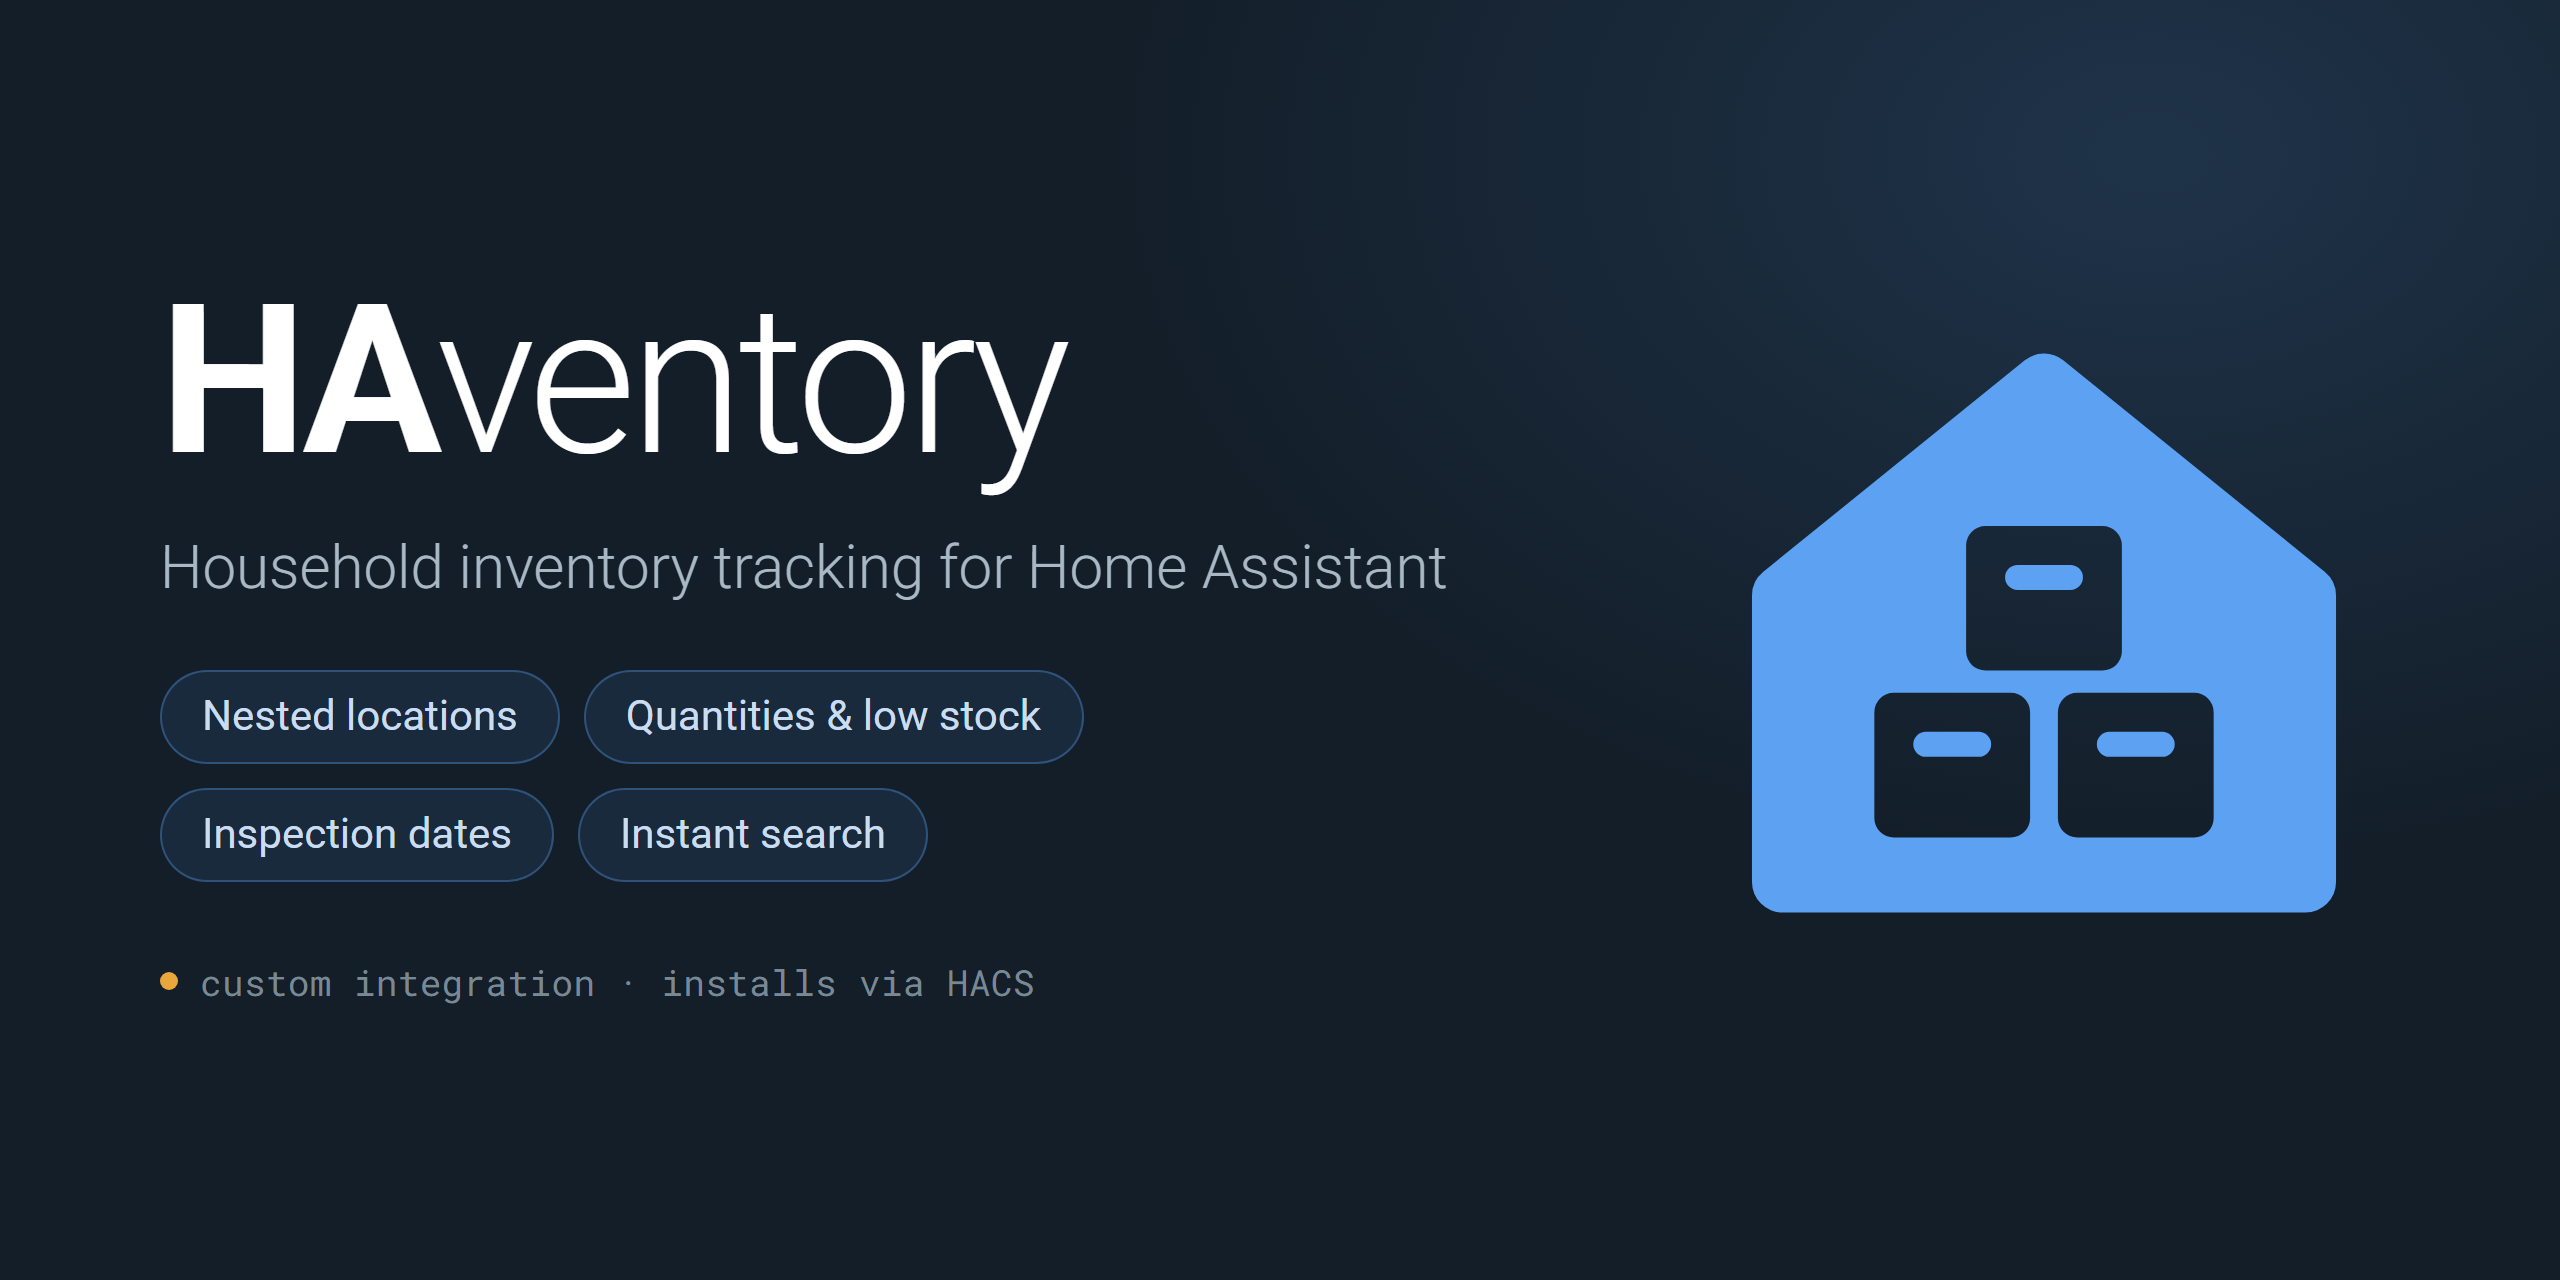
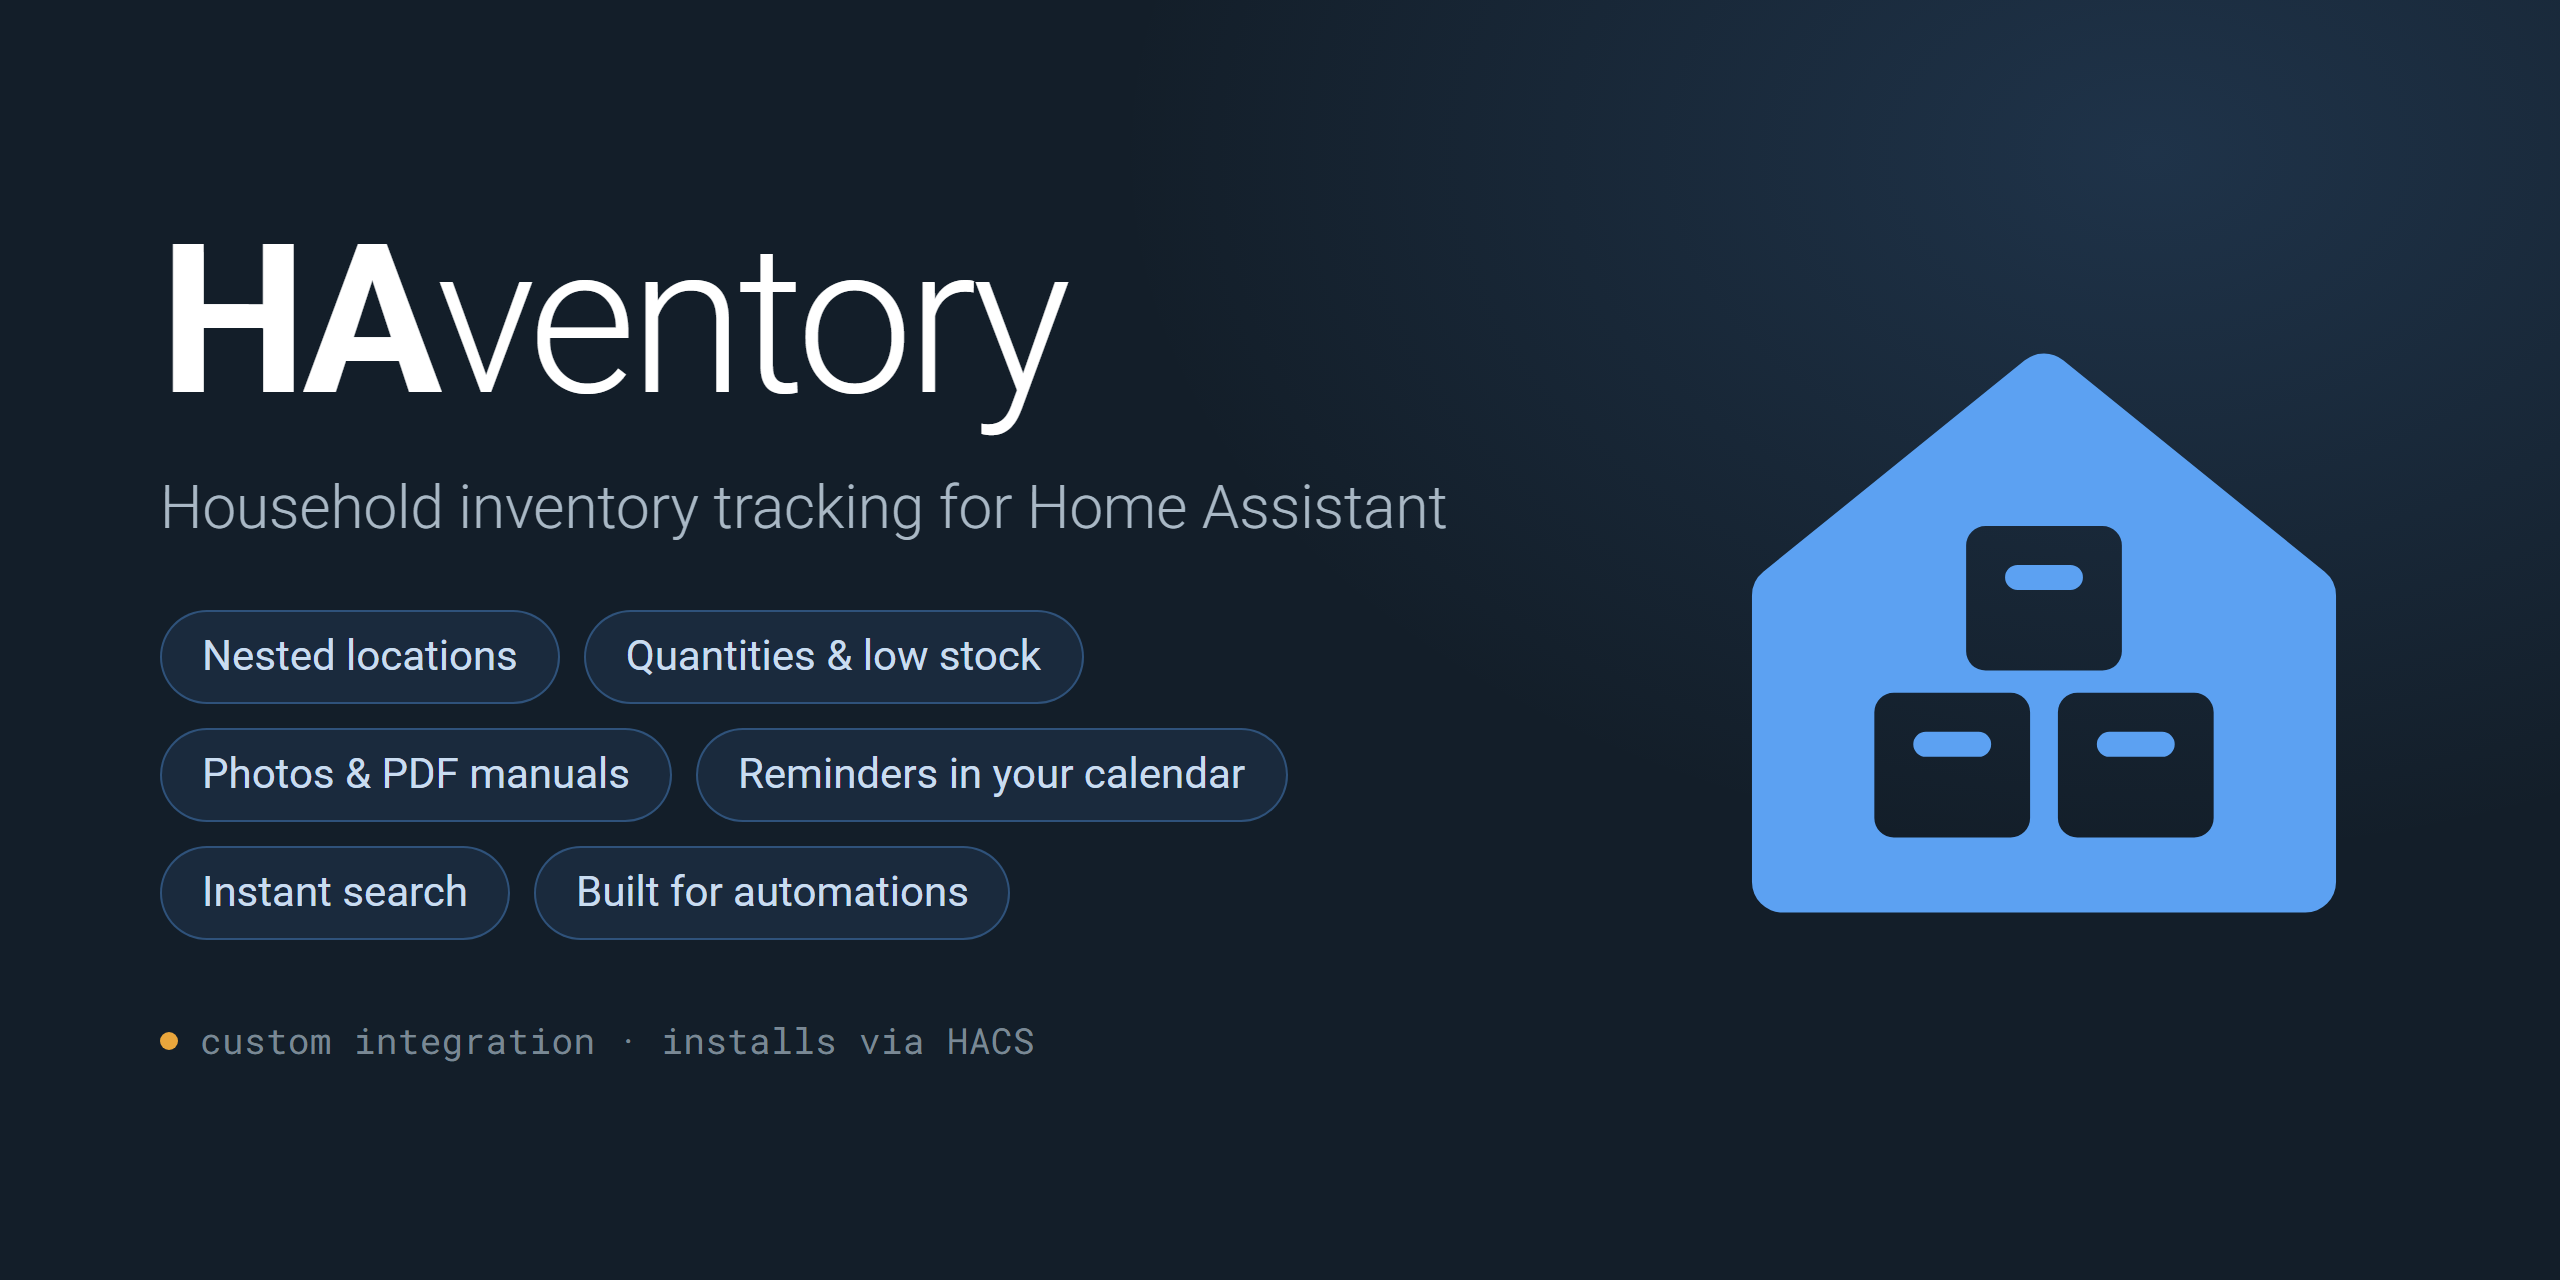
docs(brand): say what HAventory does now on its social preview (#503)
The preview's four pills were written before attachments and the calendar
shipped. Everything on it is still true, and the committed PNG is still a
faithful render of the HTML beside it — it just describes an inventory two
milestones smaller than the one that exists.

Six pills now, wrapping three even rows of two: photos and PDF manuals, and
reminders in your calendar, join the four; "Inspection dates" gives way to
the calendar entity that projects them, and "Built for automations" names the
sensors and events the README devotes a section to. The tagline, the mark and
the layout are unchanged.

The capture parameters are written into the page's own comment, since the PNG
has to be re-made by hand and uploaded under Settings → General — GitHub has
no API for it.

diff --git a/docs/assets/social-preview.html b/docs/assets/social-preview.html
@@ -13,7 +13,8 @@
       rel="stylesheet"
     />
     <style>
-      /* Source for social-preview.png, which is this page captured at 2x.
+      /* Source for social-preview.png: this page in a 1280x640 viewport at a
+         device pixel ratio of 2, captured once `document.fonts.ready` resolves.
          GitHub renders the social preview at 1280x640 and link unfurls in chat
          clients scale it down hard, hence the large type and the 80px margin. */
       * {
@@ -80,7 +81,8 @@
         display: flex;
         flex-wrap: wrap;
         gap: 12px;
-        /* Narrower than the column so the four pills wrap 2+2 instead of 3+1. */
+        /* Narrower than the column so the six pills wrap three even rows of two
+           rather than filling each row until it runs out. */
         max-width: 580px;
         margin-top: 10px;
         padding: 0;
@@ -132,8 +134,10 @@
       <ul>
         <li>Nested locations</li>
         <li>Quantities &amp; low stock</li>
-        <li>Inspection dates</li>
+        <li>Photos &amp; PDF manuals</li>
+        <li>Reminders in your calendar</li>
         <li>Instant search</li>
+        <li>Built for automations</li>
       </ul>
       <div class="meta">custom integration · installs via HACS</div>
     </div>
